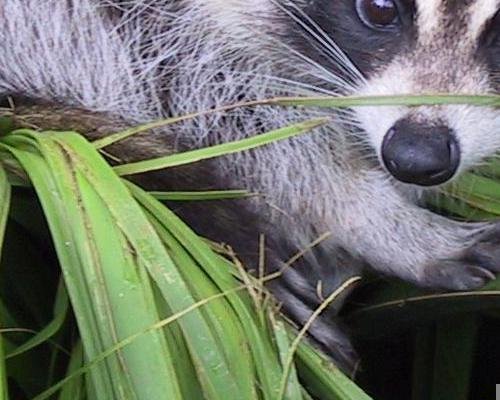
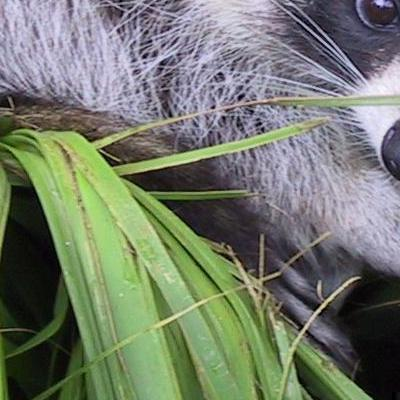
01-ex04

diff --git a/01/ex03/zoom.py b/01/ex03/zoom.py
@@ -1,10 +1,14 @@
 from PIL import Image
 from numpy import ndarray
 import numpy as np
+import matplotlib.pyplot as plt
 
 
 def ft_zoom(image_path: str) -> ndarray:
     '''
+    If you don't have matplotlib, run this command in your terminal:
+        pip3 install matplotlib
+
     This function zooms an image.
     '''
     try:
@@ -13,10 +17,13 @@ def ft_zoom(image_path: str) -> ndarray:
         start_x = 300
         start_y = 200
         end_x = 700
-        end_y = 700
+        end_y = 600
         zoomed_img_array = img_array[start_x:end_x, start_y:end_y]
         zoomed_img = Image.fromarray(zoomed_img_array)
         zoomed_img.save("zoomed_img.jpg")
+        im = Image.open("zoomed_img.jpg")
+        plt.imshow(im)
+        plt.show()
         if len(zoomed_img_array.shape) == 3:
             print(f"New shape after slicing: {zoomed_img_array.shape}")
         else:
@@ -26,6 +33,8 @@ def ft_zoom(image_path: str) -> ndarray:
         print(f"Error: {image_path} not found.")
     except OSError:
         print(f"Error: {image_path} is not a valid image file.")
+    except Exception as e:
+        print(f"Error: {e}")
 
 
 def main():
